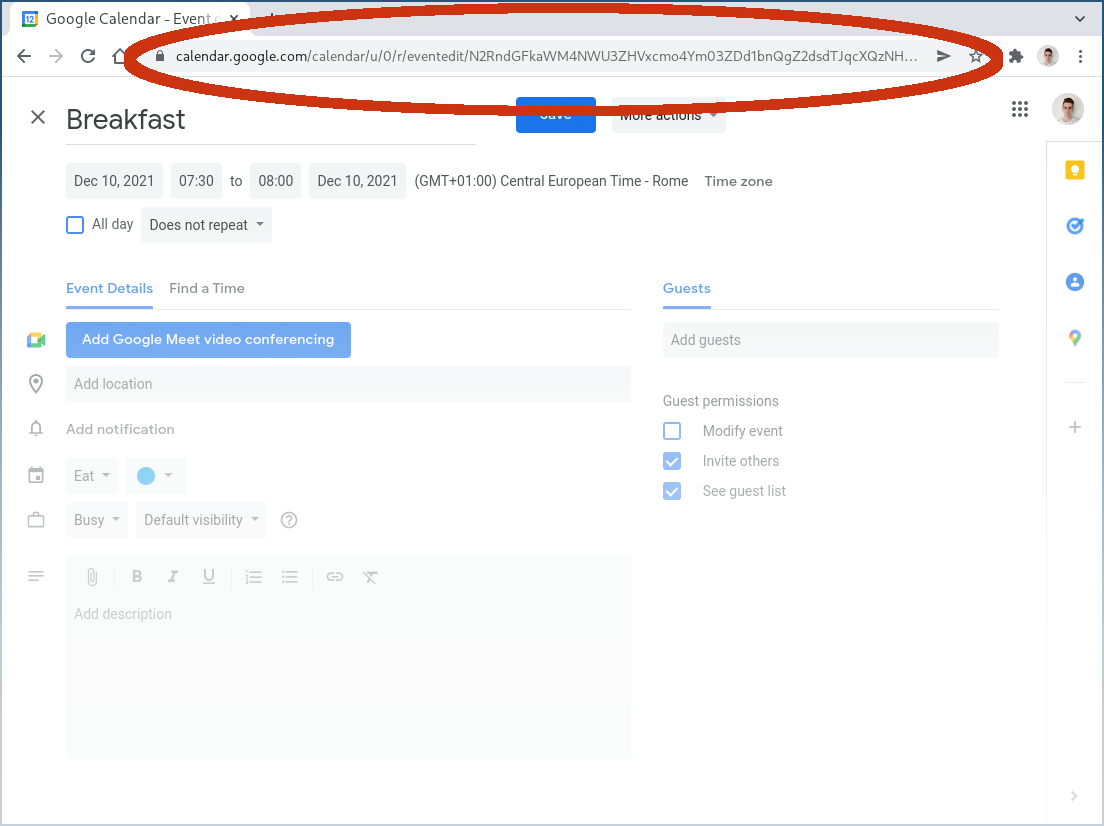
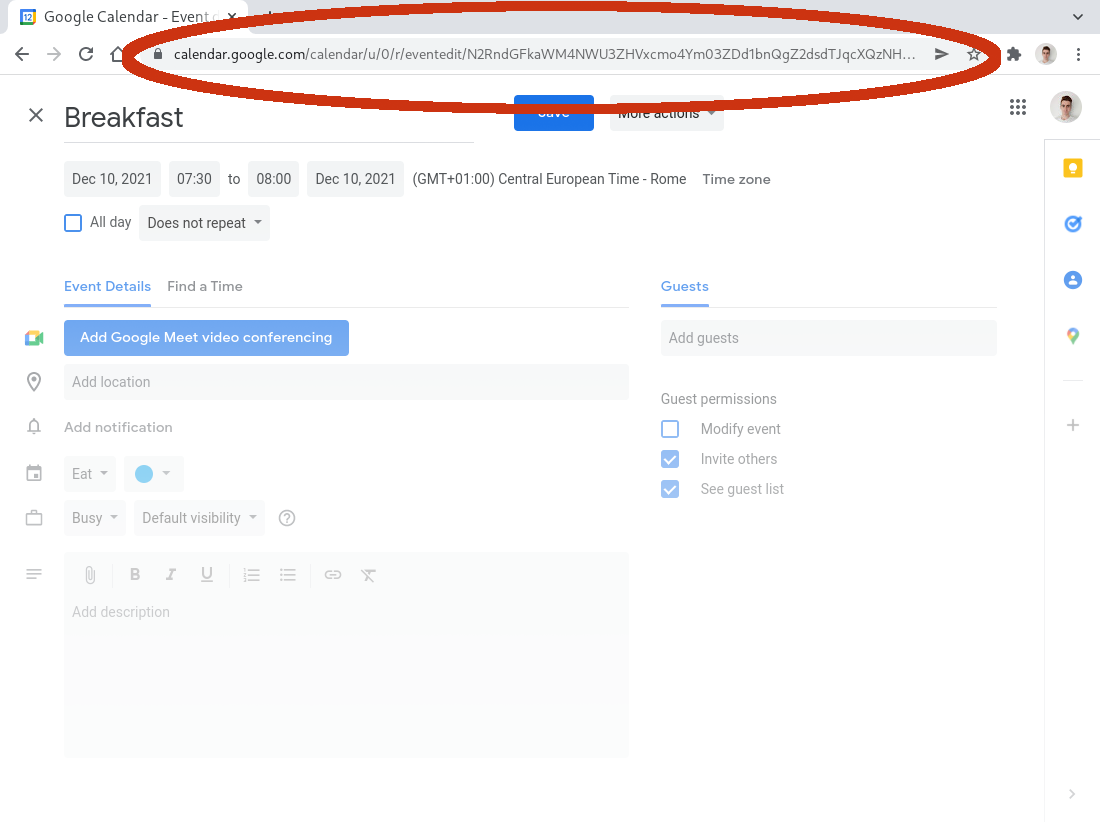
Fix typo and update event image in google calendar article

diff --git a/_posts/2021-12-01-generate-link-to-edit-events-in-google-calendar.md b/_posts/2021-12-01-generate-link-to-edit-events-in-google-calendar.md
@@ -3,13 +3,13 @@ title: "Generate link to edit events in Google Calendar"
 permalink: /generate-link-to-edit-events-in-google-calendar/
 ---
 After downloading an ICS file from Google Calendar, how do I generate the URL to edit a specific event?
-If that's the question you are asking this is the right article for you!
+If that's the question you are asking, this is the right article for you!
 
 ![](/assets/img/generate-link-to-edit-events-in-google-calendar/breakfast-event.png)
 
-## Context
+## Calendar Link
 
-Google Calendar allows to download an ICS file of a specific calendar. We can do going to ***Settings and sharing → Integrate calendar → Secret address in iCal format***.
+Google Calendar allows you to download an ICS file of a specific calendar. We can do so by going into ***Settings and sharing → Integrate calendar → Secret address in iCal format***.
 
 The link that appears in the box should look like one of these 2:
 
@@ -20,12 +20,12 @@ OTHER CALENDAR:
 https://calendar.google.com/calendar/ical/xxxxxxxxxxxxxxxxxxxxxxxxxx%40group.calendar.google.com/private-xxxxxxxxxxxxxxxxxxxxxxxxxxxxxxxx/basic.ics
 ```
 
-The type of link we see depend on the type of calendar we are analyzing, in can be either:
+The type of link we see, depends on the type of calendar we are analyzing. It can be either:
+- Calendar connected to a Google Account (*@gmail.com*)
 - Calendars not connected to a specific account (*@group.calendar.google.com*)
-- Calendar connected to the Google Account (*@gmail.com*)
 
 ## Calendar ID
-From the Calendar link, we want to find the the Calendar ID. It is localed in the link the URL after ***/ical/***.
+From the Calendar link, we want to find the Calendar ID. It is located in the link the URL after ***/ical/***.
 
 In the examples above the Calendar IDs are:
 
@@ -34,22 +34,22 @@ xxxxxxxxxxxxxxxxxxxxxxxxxx%40gmail.com
 xxxxxxxxxxxxxxxxxxxxxxxxxx%40group.calendar.google.com
 ```
 
-From these URLs we need to decode them from the [Percent-encoding](https://en.wikipedia.org/wiki/Percent-encoding) to UTF-8. In this case we are changing ***%40*** to ***@***.
+From these URLs we need to decode them from [percent-encoding](https://en.wikipedia.org/wiki/Percent-encoding) to UTF-8. In this case we are changing ***%40*** to ***@***.
 
 ```
 xxxxxxxxxxxxxxxxxxxxxxxxxx@gmail.com
 xxxxxxxxxxxxxxxxxxxxxxxxxx@group.calendar.google.com
 ```
 
-We then need to take the part up to the ***@*** (included) and the following character ***g***. Obtaining in both examples:
+From this email we need to take the user name (part of the string up to the ***@***) and add the following characters ***@g***. Obtaining in both examples:
 
 ```
 xxxxxxxxxxxxxxxxxxxxxxxxxx@g
 ```
 
-Pay attention that the number of characters before the ***@***, indeed this may vary depending on the number of characters of the email address we found above. That's why we cannot select a consistent number of characters.
+Note also that the length of the user name may vary. That's why we cannot choose a consistent number of characters of the string, for example "the first 28".
 
-We are going to use this later when [creating the final url](#create-the-link).
+We are going to use this later when [creating the final link](#create-the-link).
 
 ## Event ID
 
@@ -64,7 +64,7 @@ UID:abcxxxxxxxxxxxxxxxxxxxxxyz@google.com
 END:VEVENT
 ```
 
-The only part we need is ***UID***. Pay attenction that the number of characters before ***@google.com*** is not consistent, it may be either 58 or 26 characters.
+The only thing we need is the ***UID***. Pay attention that also here the number of characters of the user name (part of the string before ***@google.com***) is not consistent, indeed in multiple tests the length varied from 26 to 58.
 
 We are going to extract all the characters before the ***@***. In the example above it will be:
 
@@ -80,13 +80,13 @@ We need to merge the UID and Calendar ID in the following way: `UID+space+IDCAL`
 abcxxxxxxxxxxxxxxxxxxxxxyz xxxxxxxxxxxxxxxxxxxxxxxxxx@g
 ```
 
-Then we need to encode it in [Base64](https://www.base64encode.org/) obtaining:
+Then we need to encode it in [base64](https://www.base64encode.org/) obtaining:
 
 ```bash
[1 lines of base64/hex data omitted]
 ```
 
-Finally paste this token after the Google Calendar edit link in the following way:
+Finally, paste this token after the Google Calendar edit link in the following way:
 
 ```bash
 https://calendar.google.com/calendar/u/0/r/eventedit/YWJjeHh4eHh4eHh4eHh4eHh4eHh4eHh4eXogeHh4eHh4eHh4eHh4eHh4eHh4eHh4eHh4eHhAZw=
@@ -96,9 +96,9 @@ You can try to navigate to this link! Consider that you need to be logged in wit
 
 ## Conclusions
 
-You can find the implementation using Pandas in Python in my [Calendar Analyzer](https://github.com/MarcoDiFrancesco/CalendarAnalyzer) open source project, in the function below ([link](https://github.com/MarcoDiFrancesco/CalendarAnalyzer/blob/6a2ba3ea8498edb9b2fbdc7b19d43c630fcc622b/utils/admin.py#L51-L82)).
+You can find the implementation using Pandas in Python in my [Calendar Analyzer](https://github.com/MarcoDiFrancesco/CalendarAnalyzer) open source project, in the function below (or at [this link](https://github.com/MarcoDiFrancesco/CalendarAnalyzer/blob/6a2ba3ea8498edb9b2fbdc7b19d43c630fcc622b/utils/admin.py#L51-L82)).
 
 
 <script src="https://emgithub.com/embed.js?target=https%3A%2F%2Fgithub.com%2FMarcoDiFrancesco%2FCalendarAnalyzer%2Fblob%2F6a2ba3ea8498edb9b2fbdc7b19d43c630fcc622b%2Futils%2Fadmin.py%23L51-L82&style=github&showBorder=on&showLineNumbers=on&showFileMeta=on&showCopy=on&fetchFromJsDelivr=on"></script>
 
-If you find it useful you can star it!
+If you find it useful you can star the project!
